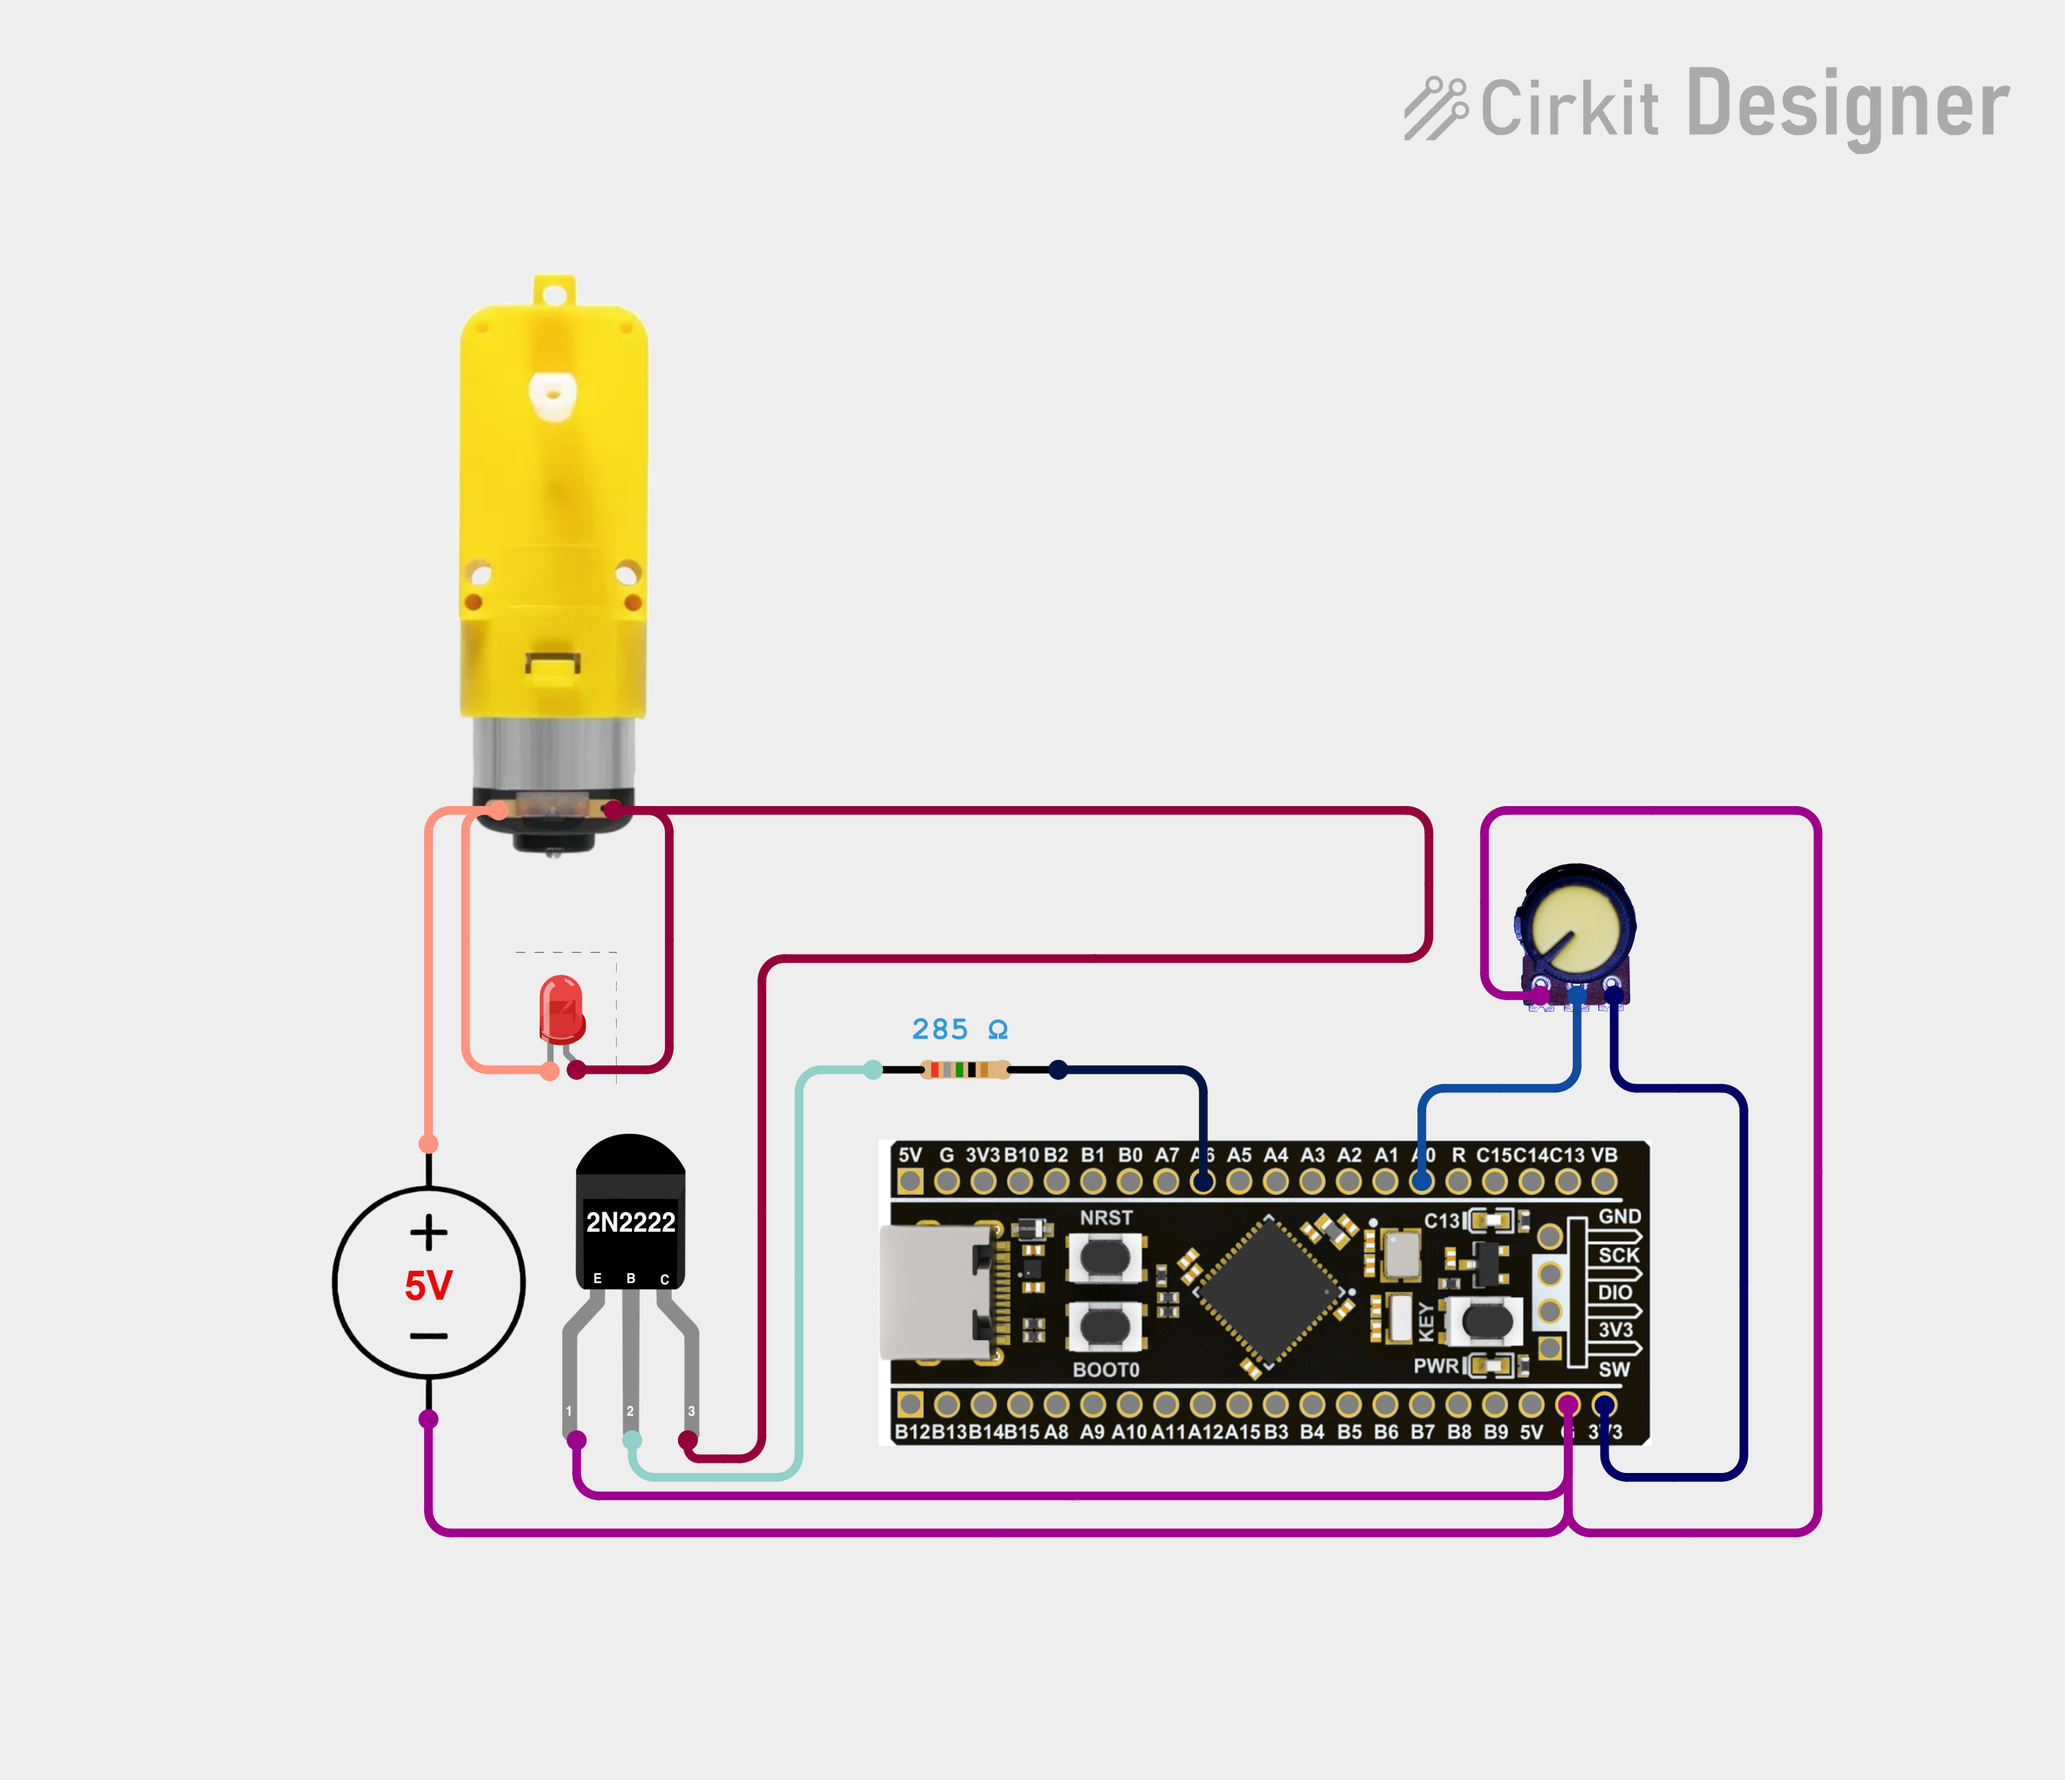
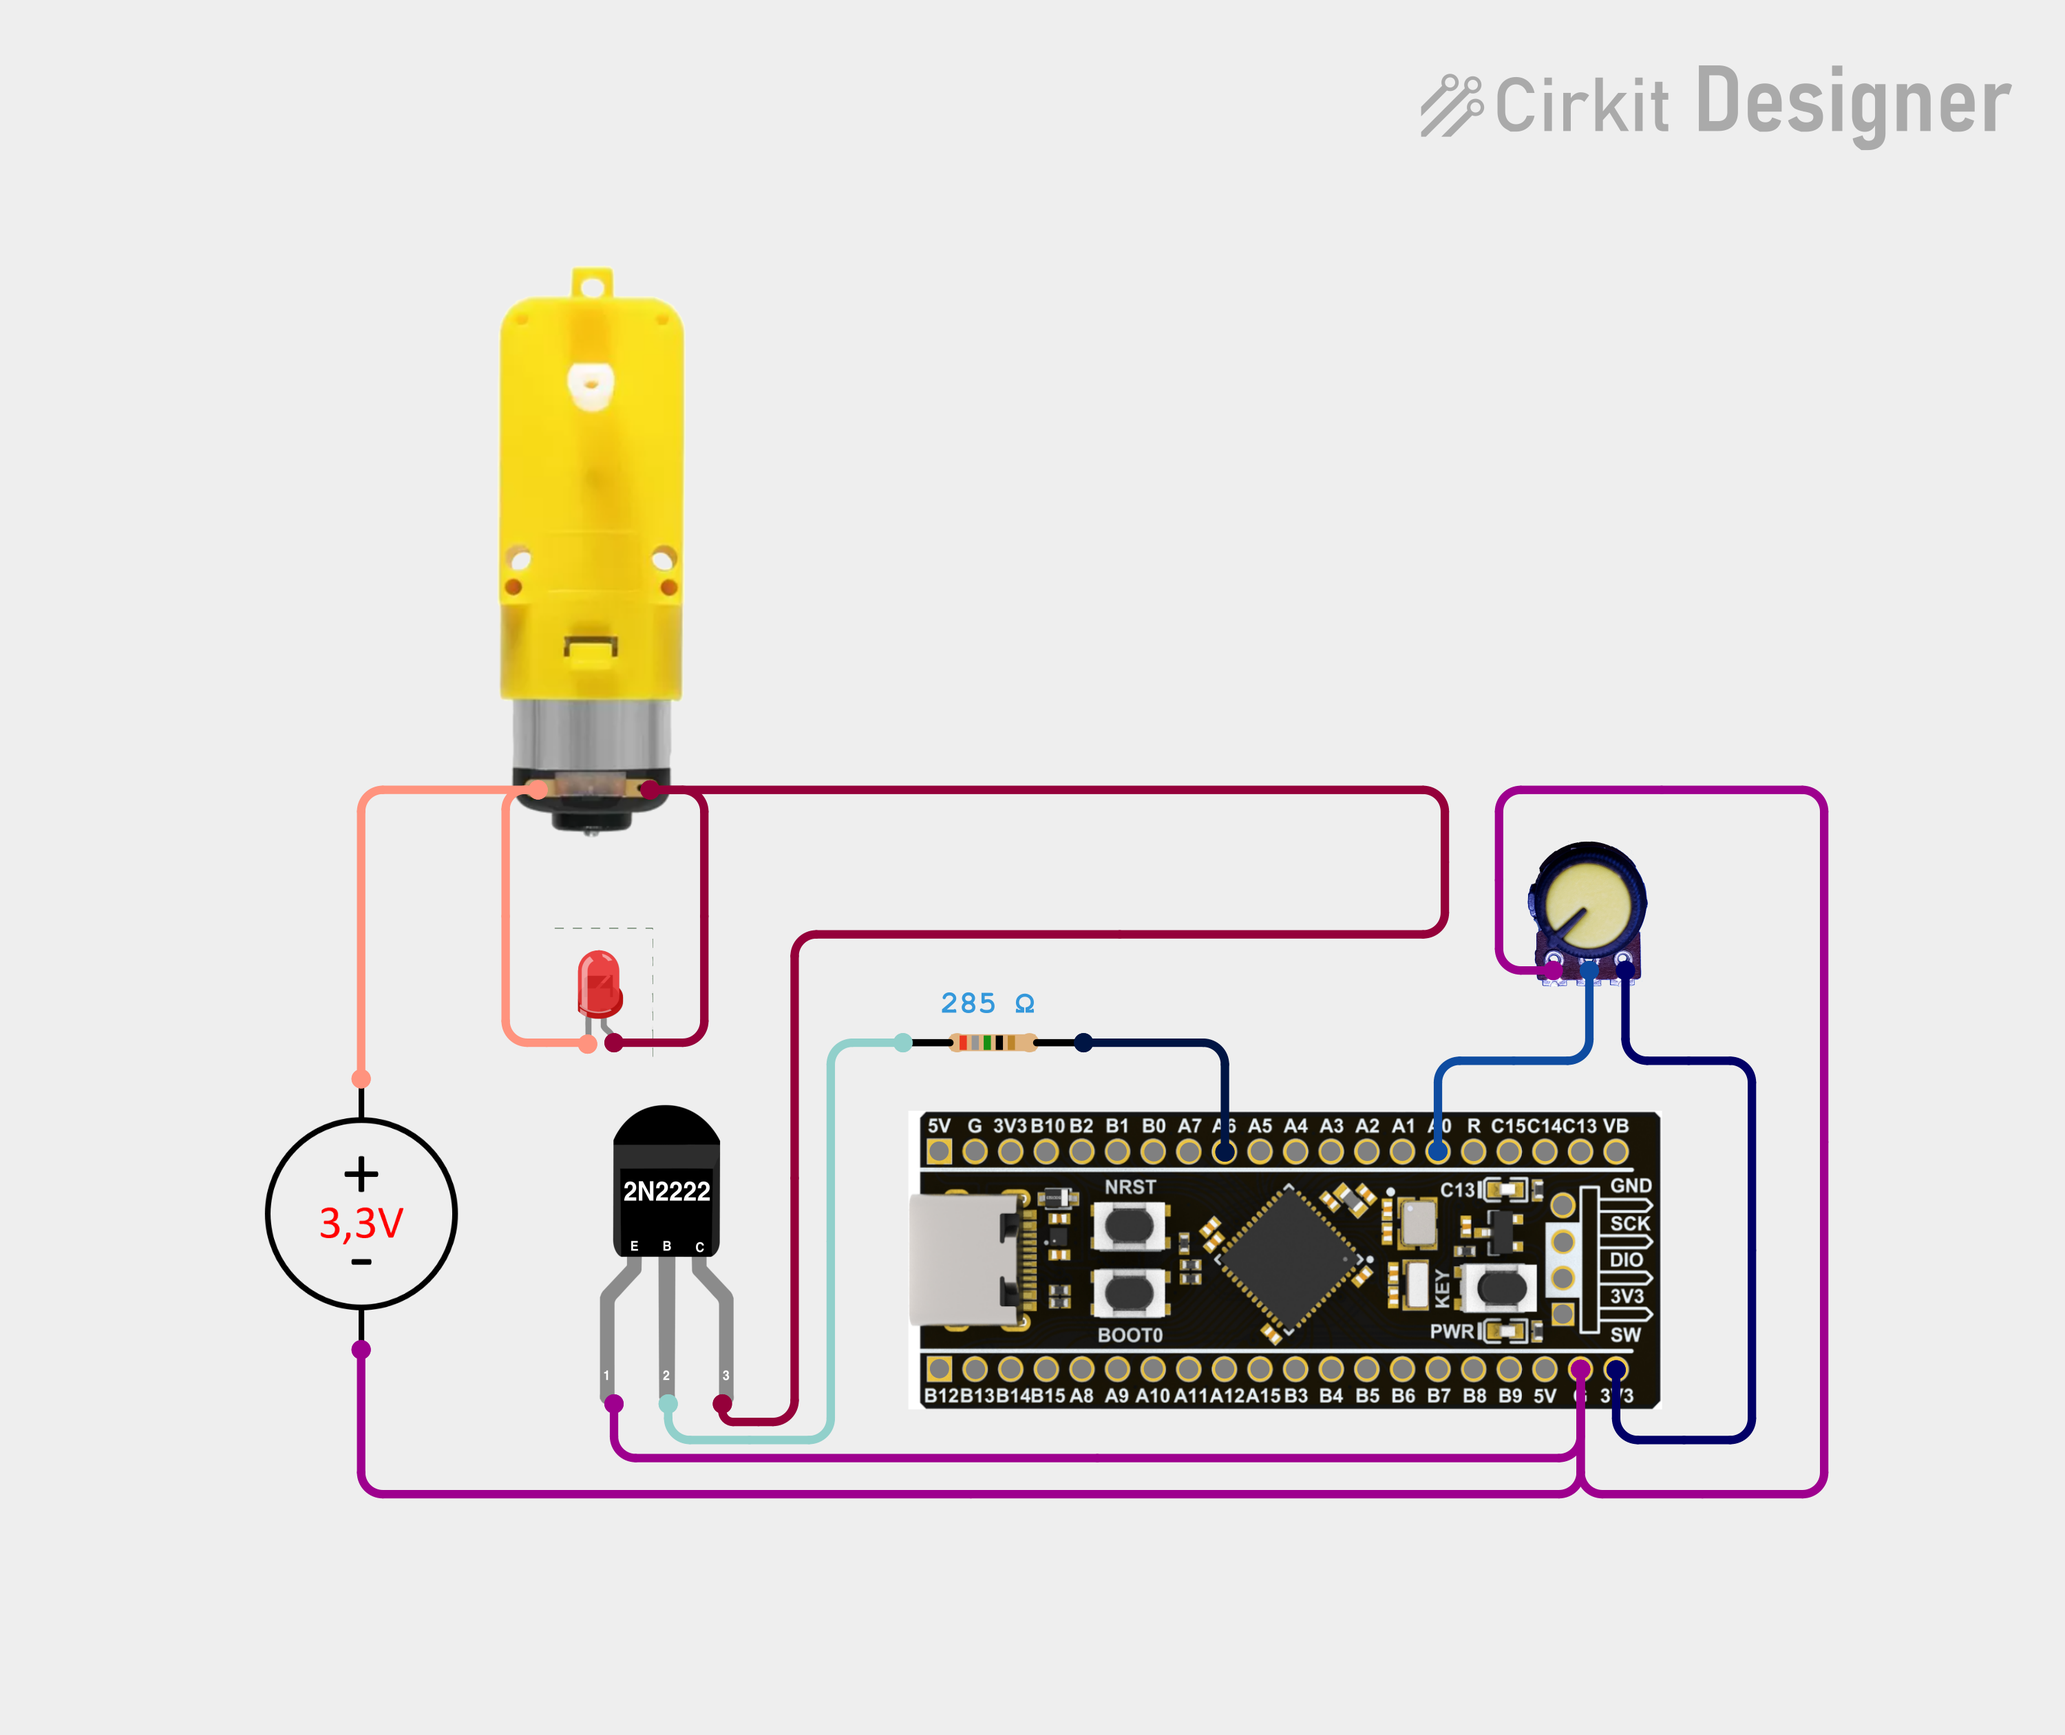
feat: style fixes

Changed region(s): [[0.124, 0.1547, 0.806, 0.8663], [0.837, 0.4641, 0.899, 0.8663], [0.682, 0.0309, 0.961, 0.0928]]

diff --git a/README.md b/README.md
@@ -6,7 +6,7 @@ A bunch of learning projects using STM32F411 Black Pill developemt board.
 
 ## Lesson 22 - pwm-driven motor with varying speed
 
-This project includes a motor controlled from stm32. Motor is connected to 3.3v power supply through a transistor, base of which is connected to the stm32. stm32 uses PWM to give signal to transistor's base, controling motor's rotation speed.
+This project includes a motor controlled from stm32. Motor is connected to 3.3v power source through a transistor, base of which is connected to the stm32. stm32 uses PWM to give signal to transistor's base, controling motor's rotation speed.
 
 PWM is implemented programmatically, using STM32's timer. Timer calls a callback every 10us and we store a counter, which decides if it is time to toggle PWM. PWM's duty cycle is controlled by a potentiometer, value of which is read using ADC.
 
